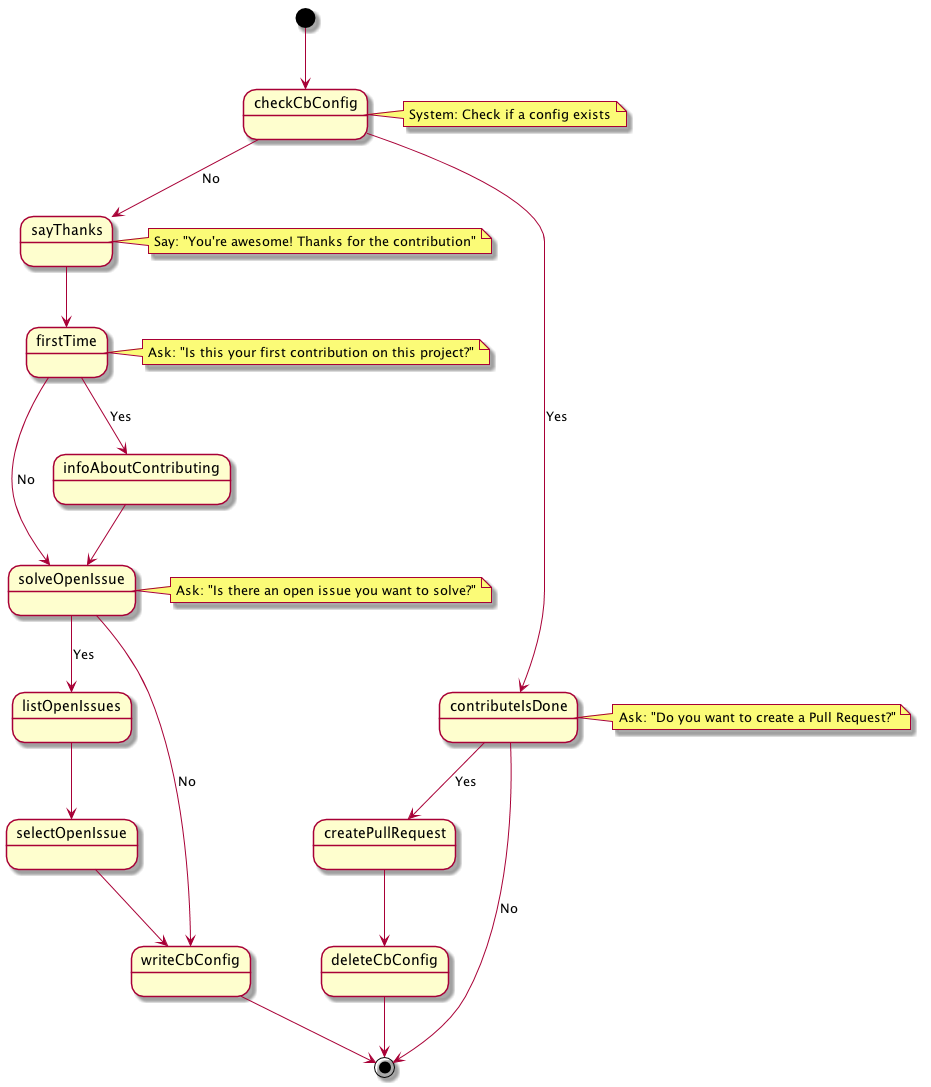
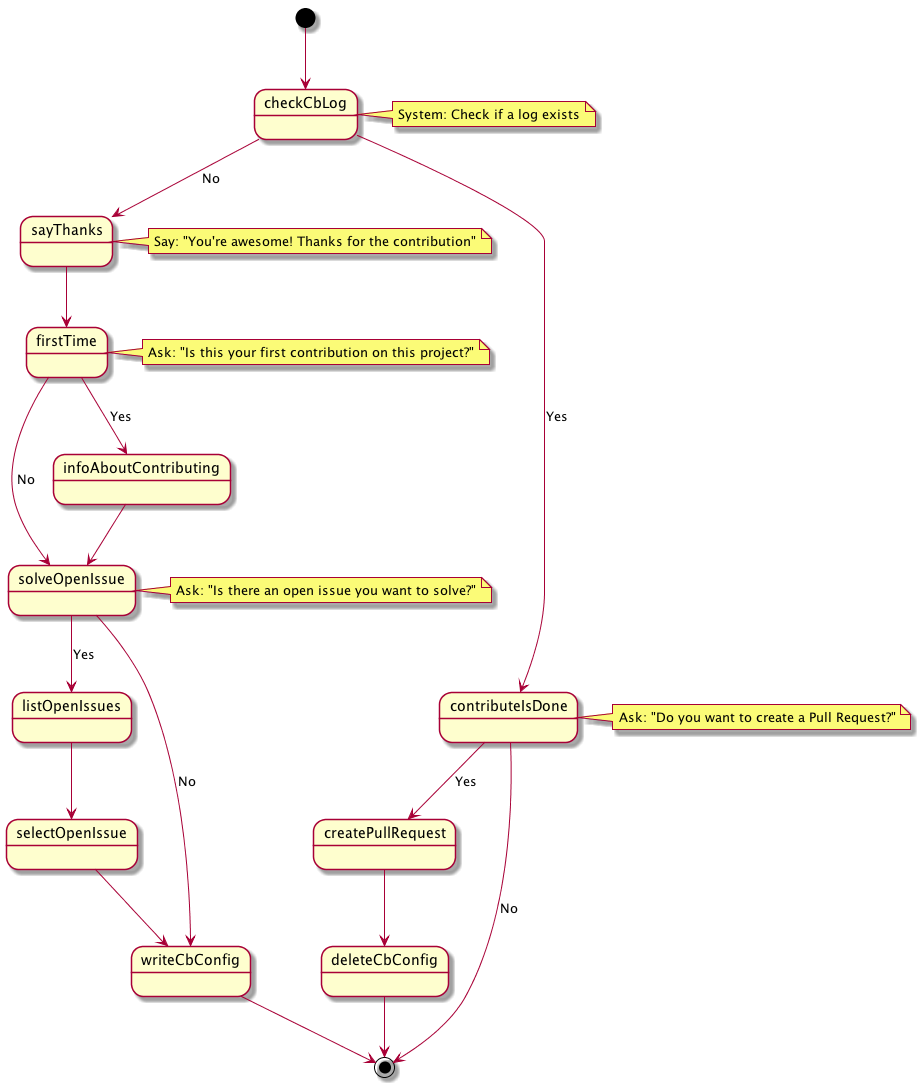
docs(system): update flow chart

diff --git a/index.js b/index.js
@@ -4,7 +4,7 @@ const inquirer = require('inquirer');
 const openIssues = require('./test-data/open-issues.json');
 const questions = require('./questions');
 
-const configPath = 'cb-easy.json';
+const configPath = 'cb-easy-log.json';
 
 function createIssueArray() {
 	// noramlly we should fetch the data
